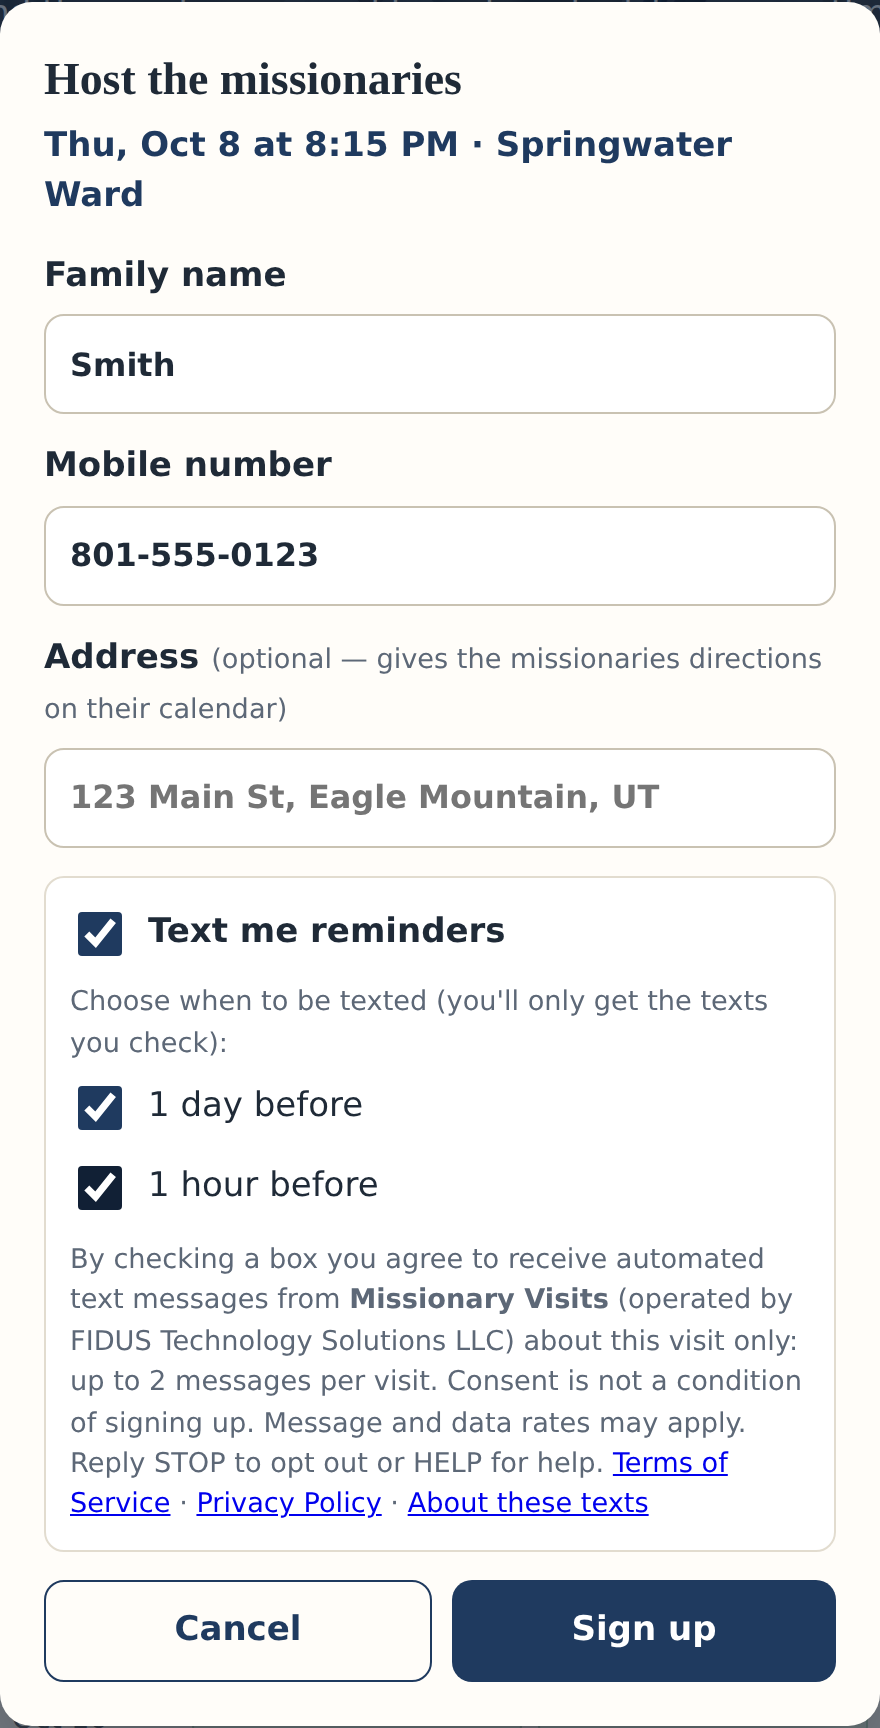
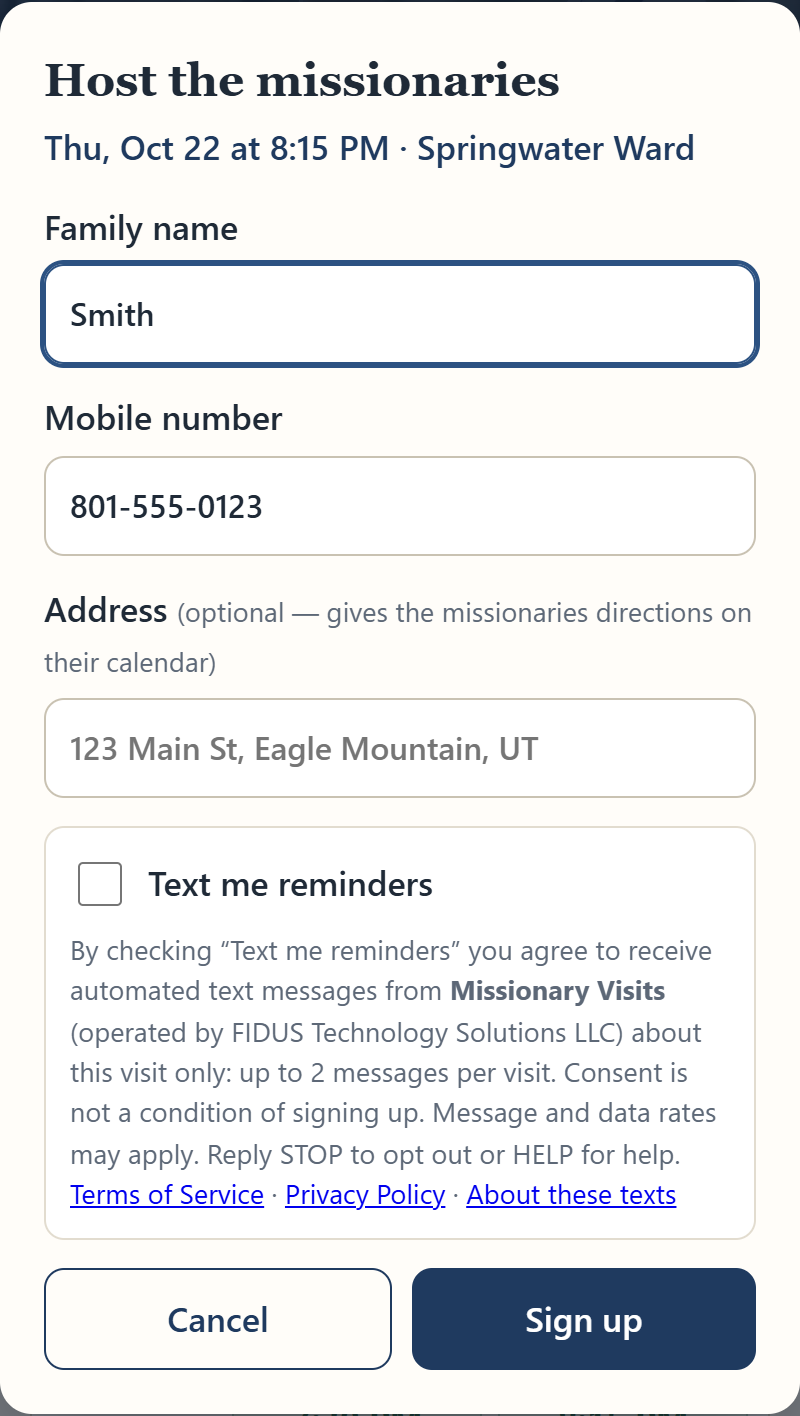
Twilio resubmission fixes: unchecked opt-in screenshots, consent notice always visible, DBA noted
Rejected 2026-10-12 for 30488 (DBA) and 30508 (pre-selected checkbox; the proof screenshots showed ticked boxes).

diff --git a/public/index.html b/public/index.html
@@ -53,11 +53,11 @@
     </label>
     <fieldset class="reminders" id="reminders" hidden>
       <label class="check master"><input type="checkbox" name="textMe" id="textMe"> Text me reminders</label>
+      <p class="fine">By checking “Text me reminders” you agree to receive automated text messages from <strong>Missionary Visits</strong> (operated by FIDUS Technology Solutions LLC) about this visit only: up to 2 messages per visit. Consent is not a condition of signing up. Message and data rates may apply. Reply STOP to opt out or HELP for help. <a href="/terms">Terms of Service</a> &middot; <a href="/privacy">Privacy Policy</a> &middot; <a href="/sms-opt-in">About these texts</a></p>
       <div id="textDetails" hidden>
         <p class="fine lead">Choose when to be texted (you'll only get the texts you check):</p>
         <label class="check"><input type="checkbox" name="remindDay"> 1 day before</label>
         <label class="check"><input type="checkbox" name="remindHour"> 1 hour before</label>
-        <p class="fine">By checking a box you agree to receive automated text messages from <strong>Missionary Visits</strong> (operated by FIDUS Technology Solutions LLC) about this visit only: up to 2 messages per visit. Consent is not a condition of signing up. Message and data rates may apply. Reply STOP to opt out or HELP for help. <a href="/terms">Terms of Service</a> &middot; <a href="/privacy">Privacy Policy</a> &middot; <a href="/sms-opt-in">About these texts</a></p>
       </div>
     </fieldset>
     <p class="err" id="err" role="alert"></p>

diff --git a/public/sms-opt-in.html b/public/sms-opt-in.html
@@ -19,7 +19,7 @@
 
 <h4>1. Visit reminders (on the sign-up form)</h4>
 <p>After choosing a visit time, a person ticks <em>Text me reminders</em>, chooses 1 day before and/or 1 hour before, and reads this notice next to the box:</p>
-<blockquote>By checking a box you agree to receive automated text messages from <strong>Missionary Visits</strong> (operated by FIDUS Technology Solutions LLC) about this visit only: up to 2 messages per visit. Consent is not a condition of signing up. Message and data rates may apply. Reply STOP to opt out or HELP for help. Terms of Service &middot; Privacy Policy</blockquote>
+<blockquote>By checking “Text me reminders” you agree to receive automated text messages from <strong>Missionary Visits</strong> (operated by FIDUS Technology Solutions LLC) about this visit only: up to 2 messages per visit. Consent is not a condition of signing up. Message and data rates may apply. Reply STOP to opt out or HELP for help. Terms of Service &middot; Privacy Policy</blockquote>
 <p><img src="/img/optin-reminders.png" alt="Screenshot of the sign-up form with the text reminder consent box and notice" style="max-width:100%;border:1px solid #ccc;border-radius:8px"></p>
 
 <h4>2. Wait-list notices (on the wait-list form)</h4>

diff --git a/docs/twilio-resubmission.md b/docs/twilio-resubmission.md
@@ -1,5 +1,9 @@
 # Twilio toll-free verification: resubmission pack
 
+**Second rejection 2026-10-12:** 30488 DBA name must be accurately provided; 30508 opt-in checkbox is pre-selected.
+Fix: DBA field = "Missionary Visits" (matches the texts and consent wording), and the opt-in screenshots were retaken with every
+box unchecked; the consent notice now sits permanently under the unchecked "Text me reminders" box. Resubmit by 2026-10-19.
+
 Rejected 2026-10-07 (request HH9c006ea19d8d37821effe22eaf28f7a7, +1 855 713 4387, FIDUS Technology Solutions LLC).
 Reasons: 30493 Terms URL, 30536 Privacy URL, 30497 Use-case summary incomplete, 30506 Opt-ins must reflect the end business.
 Twilio allows 7 days for a prioritized resubmission (by 2026-10-14).
@@ -10,6 +14,7 @@ Twilio allows 7 days for a prioritized resubmission (by 2026-10-14).
 | Field | Value |
 |---|---|
 | Business name | FIDUS Technology Solutions LLC (exactly as registered) |
+| Doing business as (DBA) | Missionary Visits (the name in every text and on the consent wording) |
 | Terms of Service URL | https://www.missionaryvisits.com/terms |
 | Privacy Policy URL | https://www.missionaryvisits.com/privacy |
 | Opt-in method | Website / web form |
@@ -31,7 +36,7 @@ Mobile numbers and consent are never shared with third parties or affiliates for
 ## Opt-in workflow description (30506)
 On https://www.missionaryvisits.com a visitor selects a visit time and enters their family name and mobile number. To
 receive reminders they tick the unchecked "Text me reminders" box, choose 1 day and/or 1 hour before, and read the notice
-beside the box: "By checking a box you agree to receive automated text messages from Missionary Visits (operated by FIDUS
+beside the box: "By checking “Text me reminders” you agree to receive automated text messages from Missionary Visits (operated by FIDUS
 Technology Solutions LLC) about this visit only: up to 2 messages per visit. Consent is not a condition of signing up.
 Message and data rates may apply. Reply STOP to opt out or HELP for help." with links to the Terms and Privacy Policy.
 For wait-lists, a visitor must tick a required, unchecked box with equivalent wording before they can join. Numbers are
